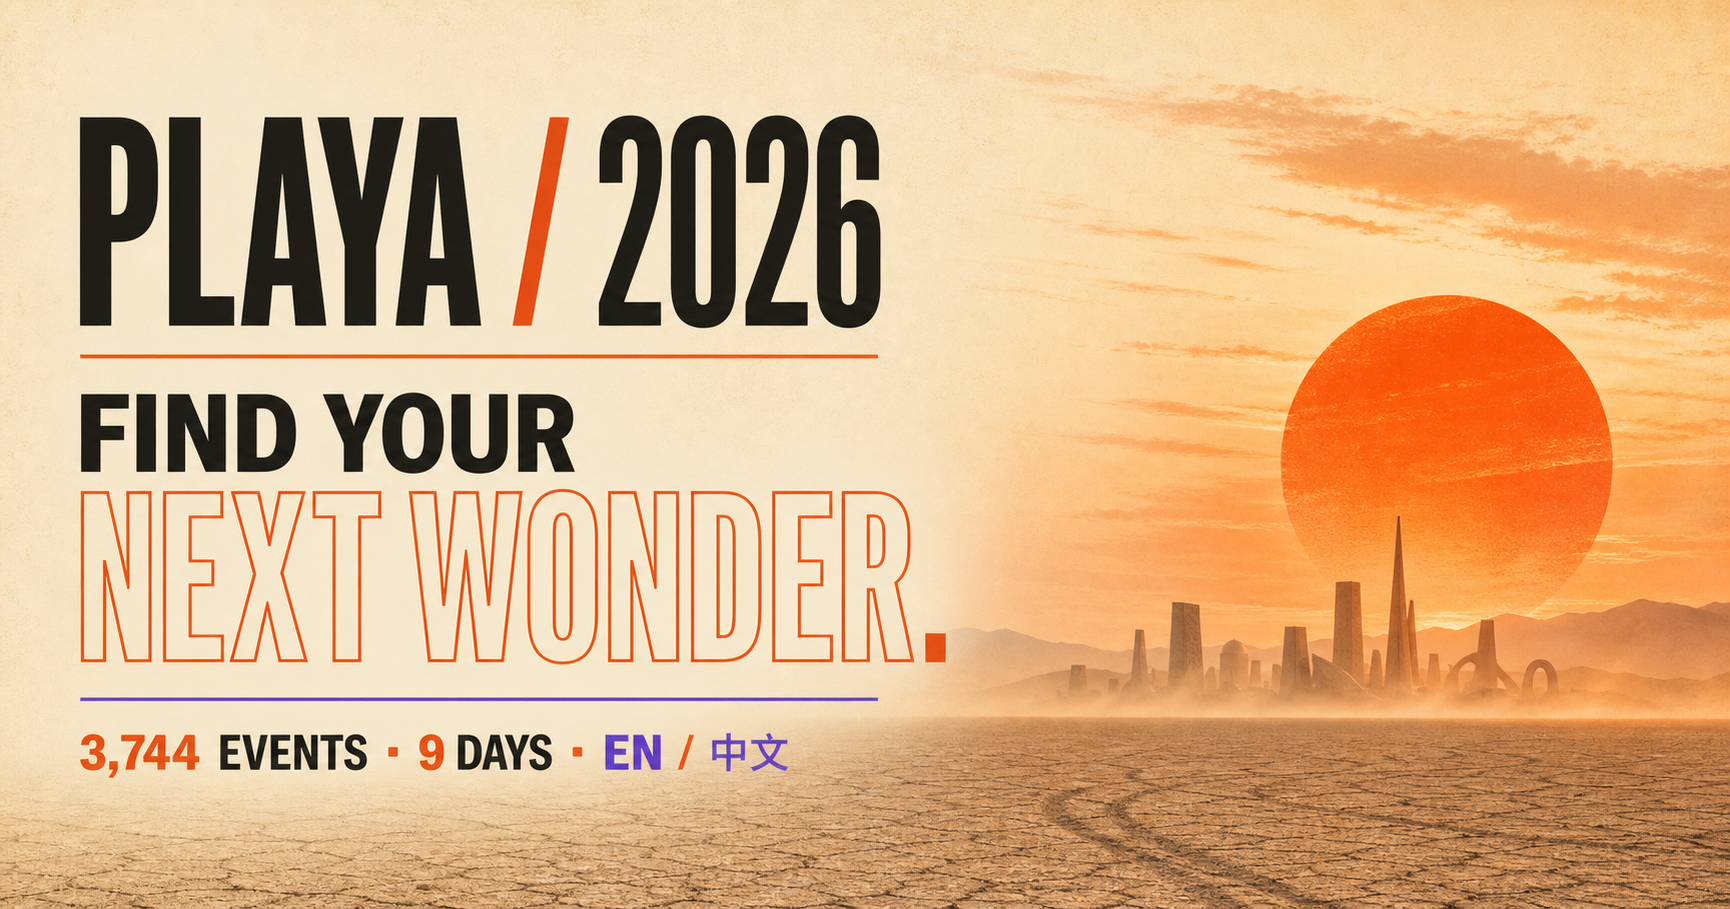
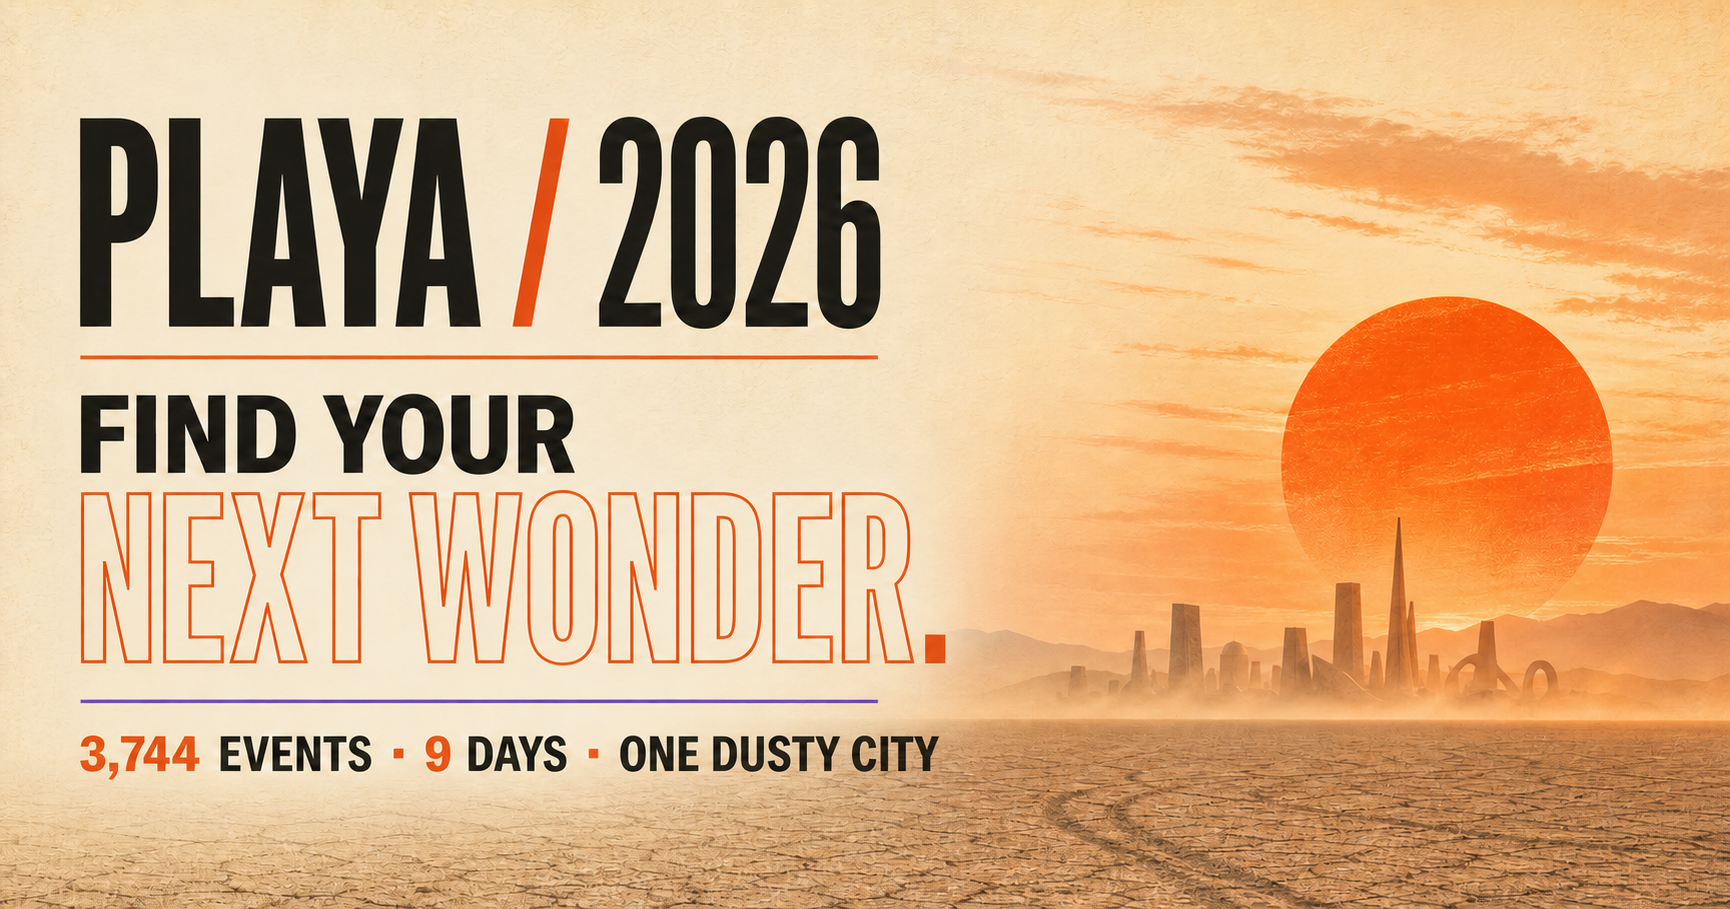
Add saved-event calendar and Netlify deployment

diff --git a/app/globals.css b/app/globals.css
@@ -144,27 +144,36 @@ footer a { border: 1px solid rgba(255,255,255,.35); border-radius: 999px; paddin
 .plan-shell.open { visibility: visible; }
 .plan-backdrop { position: absolute; inset: 0; width: 100%; border: 0; background: rgba(23,23,19,.38); opacity: 0; transition: opacity .25s ease; cursor: default; }
 .plan-shell.open .plan-backdrop { opacity: 1; }
-.plan-drawer { position: absolute; top: 0; right: 0; width: min(520px, 100%); height: 100%; background: var(--cream); transform: translateX(100%); transition: transform .32s cubic-bezier(.2,.8,.2,1); display: flex; flex-direction: column; box-shadow: -20px 0 60px rgba(23,23,19,.18); }
+.plan-drawer { position: absolute; top: 0; right: 0; width: min(1180px, 100%); height: 100%; background: var(--cream); transform: translateX(100%); transition: transform .32s cubic-bezier(.2,.8,.2,1); display: flex; flex-direction: column; box-shadow: -20px 0 60px rgba(23,23,19,.18); }
 .plan-shell.open .plan-drawer { transform: translateX(0); }
 .plan-header { padding: 28px 28px 22px; border-bottom: 1px solid var(--line); display: flex; justify-content: space-between; gap: 20px; }
 .plan-header p { margin: 0 0 8px; font-family: var(--font-geist-mono); font-size: 9px; color: #756e63; letter-spacing: .06em; }
 .plan-header h2 { margin: 0; font-size: 38px; letter-spacing: -.05em; }
 .plan-header h2 span { display: inline-grid; place-items: center; min-width: 32px; height: 32px; border-radius: 50%; background: var(--ember); color: white; font-family: var(--font-geist-mono); font-size: 11px; vertical-align: middle; }
 .plan-header > button { flex: 0 0 auto; width: 40px; height: 40px; border: 1px solid var(--line); border-radius: 50%; background: transparent; font-size: 24px; cursor: pointer; }
-.plan-list { flex: 1; overflow: auto; padding: 10px 28px; }
-.plan-item { display: grid; grid-template-columns: 48px minmax(0,1fr) auto; gap: 14px; align-items: center; padding: 16px 0; border-bottom: 1px solid var(--line); }
-.plan-index { width: 48px; height: 48px; border-radius: 50%; display: grid; place-items: center; background: #87909a; color: white; font-size: 18px; }
-.plan-index.category-prty { background: #6856c4; }
-.plan-index.category-arts { background: #e85a39; }
-.plan-index.category-work { background: #7b9d68; }
-.plan-index.category-food { background: #df9e36; }
-.plan-index.category-tea { background: #69a4a6; }
-.plan-index.category-adlt { background: #a04a6f; }
-.plan-index.category-kid { background: #c87cad; }
-.plan-item span { font-family: var(--font-geist-mono); font-size: 8px; letter-spacing: .06em; color: #7b7368; }
-.plan-item h3 { margin: 5px 0 3px; font-size: 15px; line-height: 1.15; }
-.plan-item p { margin: 0; font-size: 10px; color: #746d63; }
-.plan-item > button { width: 30px; height: 30px; border: 0; border-radius: 50%; background: #eee7dc; cursor: pointer; }
+.plan-calendar { flex: 1; min-height: 0; display: grid; grid-auto-flow: column; grid-auto-columns: minmax(210px, 1fr); overflow: auto; border-bottom: 1px solid var(--line); }
+.calendar-day { min-width: 0; border-right: 1px solid var(--line); background: rgba(255,255,255,.2); }
+.calendar-day:last-child { border-right: 0; }
+.calendar-day > header { height: 66px; position: sticky; top: 0; z-index: 2; display: grid; grid-template-columns: 1fr auto; align-content: center; padding: 0 14px; border-bottom: 1px solid var(--line); background: rgba(251,248,241,.96); backdrop-filter: blur(10px); }
+.calendar-day > header strong { font-family: var(--font-geist-mono); font-size: 11px; letter-spacing: .08em; }
+.calendar-day > header span { grid-row: 2; font-size: 10px; color: #7b7368; }
+.calendar-day > header em { grid-column: 2; grid-row: 1 / 3; align-self: center; display: grid; place-items: center; min-width: 27px; height: 27px; border-radius: 50%; background: var(--ink); color: white; font-family: var(--font-geist-mono); font-size: 9px; font-style: normal; }
+.calendar-events { padding: 10px; }
+.calendar-event { position: relative; margin-bottom: 9px; padding: 12px; border-radius: 14px; background: #e2ddd4; border-left: 4px solid #87909a; }
+.calendar-event.category-prty { border-left-color: #6856c4; background: #ebe8fa; }
+.calendar-event.category-arts { border-left-color: #e85a39; background: #f8e6df; }
+.calendar-event.category-work { border-left-color: #7b9d68; background: #e7eee1; }
+.calendar-event.category-food { border-left-color: #df9e36; background: #f7ebd3; }
+.calendar-event.category-tea { border-left-color: #69a4a6; background: #e0eeee; }
+.calendar-event.category-adlt { border-left-color: #a04a6f; background: #f2e2e9; }
+.calendar-event.category-kid { border-left-color: #c87cad; background: #f5e5ef; }
+.calendar-event-top { display: flex; align-items: center; justify-content: space-between; gap: 8px; }
+.calendar-event-top span { font-family: var(--font-geist-mono); font-size: 8px; letter-spacing: .05em; color: #6c655b; }
+.calendar-event-top button { width: 22px; height: 22px; border: 0; border-radius: 50%; background: rgba(23,23,19,.08); cursor: pointer; }
+.calendar-event h3 { margin: 9px 0 5px; padding-right: 16px; font-size: 13px; line-height: 1.18; letter-spacing: -.02em; }
+.calendar-event p { margin: 0; padding-right: 18px; font-size: 9px; line-height: 1.35; color: #746d63; }
+.calendar-event > a { position: absolute; right: 11px; bottom: 10px; font-size: 11px; }
+.calendar-blank { margin: 20px 0; text-align: center; color: #b7afa3; }
 .plan-empty { height: 100%; display: grid; place-items: center; align-content: center; text-align: center; gap: 12px; color: #70695f; }
 .plan-empty span { font-size: 48px; color: var(--ember); }
 .plan-empty p { max-width: 270px; line-height: 1.5; }
@@ -216,7 +225,7 @@ footer a { border: 1px solid rgba(255,255,255,.35); border-radius: 999px; paddin
   footer a { justify-self: start; }
   .plan-dock { right: 14px; bottom: 14px; }
   .plan-header, .plan-footer { padding-left: 18px; padding-right: 18px; }
-  .plan-list { padding-left: 18px; padding-right: 18px; }
+  .plan-calendar { grid-auto-columns: minmax(200px, 76vw); }
 }
 
 @media (prefers-reduced-motion: reduce) {

diff --git a/app/page.tsx b/app/page.tsx
@@ -45,20 +45,20 @@ const categoryMeta: Record<string, { en: string; zh: string; mark: string }> = {
 const copy = {
   en: {
     navTitle: "PLAYA / 2026",
-    navSub: "The bilingual field guide",
+    navSub: "Black Rock City field guide",
     search: "Search events, camps, or locations…",
     eyebrow: "COMMUNITY-CURATED · 3,744 MOMENTS IN THE DUST",
     heroA: "FIND YOUR",
     heroB: "NEXT WONDER.",
     intro:
-      "Nine days. Thousands of invitations. One clean guide for following the strange, generous pulse of Black Rock City — in English and Chinese.",
+      "Nine days. Thousands of invitations. One clean guide for following the strange, generous pulse of Black Rock City.",
     updated: "Source updated Aug 27, 2026",
     events: "events",
     days: "days",
-    languages: "languages",
+    languages: "categories",
     saved: "saved",
     myPlaya: "My Playa",
-    planHint: "Your interested list lives only in this browser.",
+    planHint: "Your saved events, arranged across the week. Stored only in this browser.",
     planEmpty: "Star any event to start building your personal playa list.",
     copyList: "Copy list",
     copied: "Copied",
@@ -92,10 +92,10 @@ const copy = {
     updated: "来源更新于 2026 年 8 月 27 日",
     events: "活动",
     days: "天",
-    languages: "语言",
+    languages: "分类",
     saved: "已收藏",
     myPlaya: "我的 Playa",
-    planHint: "你的兴趣清单只保存在此浏览器中。",
+    planHint: "收藏的活动按日期排好，只保存在此浏览器中。",
     planEmpty: "收藏任意活动，开始制作你的个人 Playa 清单。",
     copyList: "复制清单",
     copied: "已复制",
@@ -306,7 +306,7 @@ export default function Home() {
           <dl className="stats">
             <div><dt>3,744</dt><dd>{t.events}</dd></div>
             <div><dt>09</dt><dd>{t.days}</dd></div>
-            <div><dt>02</dt><dd>{t.languages}</dd></div>
+            <div><dt>08</dt><dd>{t.languages}</dd></div>
             <div><dt>{String(saved.size).padStart(2, "0")}</dt><dd>{t.saved}</dd></div>
           </dl>
         </div>
@@ -385,21 +385,25 @@ export default function Home() {
             <div><p>{t.planHint}</p><h2>{t.myPlaya} <span>{saved.size}</span></h2></div>
             <button onClick={() => setPlanOpen(false)} aria-label={t.close}>×</button>
           </div>
-          <div className="plan-list">
+          <div className="plan-calendar">
             {savedEvents.length === 0 ? (
               <div className="plan-empty"><span>☆</span><p>{t.planEmpty}</p></div>
-            ) : savedEvents.map((event) => {
-              const eventDay = event.times.findIndex((time) => time && time !== "-");
+            ) : days.map((calendarDay, dayIndex) => {
+              const dayEvents = savedEvents.filter((event) => event.times[dayIndex] && event.times[dayIndex] !== "-");
               return (
-                <article key={event.uid} className="plan-item">
-                  <div className={`plan-index category-${normalizeCategory(event.type)}`}>{categoryMeta[normalizeCategory(event.type)]?.mark || "✳"}</div>
-                  <div>
-                    <span>{eventDay >= 0 ? `${days[eventDay][lang === "en" ? 0 : 1]} ${days[eventDay][2]} · ${event.times[eventDay]}` : event.camp}</span>
-                    <h3>{event.title}</h3>
-                    <p>{event.where !== "-" ? event.where : event.camp}</p>
+                <section className="calendar-day" key={calendarDay[2]}>
+                  <header><strong>{calendarDay[lang === "en" ? 0 : 1]}</strong><span>{calendarDay[2]}</span><em>{dayEvents.length}</em></header>
+                  <div className="calendar-events">
+                    {dayEvents.length === 0 ? <p className="calendar-blank">—</p> : dayEvents.map((event) => (
+                      <article key={`${event.uid}-${dayIndex}`} className={`calendar-event category-${normalizeCategory(event.type)}`}>
+                        <div className="calendar-event-top"><span>{categoryMeta[normalizeCategory(event.type)]?.mark || "✳"} {event.times[dayIndex]}</span><button onClick={() => toggleSaved(event.uid)} aria-label={t.remove}>×</button></div>
+                        <h3>{event.title}</h3>
+                        <p>{event.where !== "-" ? event.where : event.camp}</p>
+                        <a href={event.link} target="_blank" rel="noreferrer">↗</a>
+                      </article>
+                    ))}
                   </div>
-                  <button onClick={() => toggleSaved(event.uid)} aria-label={t.remove}>×</button>
-                </article>
+                </section>
               );
             })}
           </div>

diff --git a/app/layout.tsx b/app/layout.tsx
@@ -1,29 +1,22 @@
 import type { Metadata } from "next";
 import { Geist, Geist_Mono } from "next/font/google";
-import { headers } from "next/headers";
 import "./globals.css";
 
 const geistSans = Geist({ variable: "--font-geist-sans", subsets: ["latin"] });
 const geistMono = Geist_Mono({ variable: "--font-geist-mono", subsets: ["latin"] });
 
-export async function generateMetadata(): Promise<Metadata> {
-  const requestHeaders = await headers();
-  const host = requestHeaders.get("x-forwarded-host") || requestHeaders.get("host") || "localhost:3000";
-  const protocol = requestHeaders.get("x-forwarded-proto") || (host.includes("localhost") ? "http" : "https");
-  const origin = `${protocol}://${host}`;
-  return {
-    title: "Playa 2026 — Bilingual Burning Man Event Guide",
-    description: "Explore 3,744 Burning Man 2026 events in English and Chinese. Filter by day, category, camp, and location, then save your playa plan.",
+export const metadata: Metadata = {
+    title: "Playa 2026 — Burning Man Event Guide",
+    description: "Explore 3,744 Burning Man 2026 events. Filter by day, category, camp, and location, then save your playa plan.",
     icons: { icon: "/favicon.svg", shortcut: "/favicon.svg" },
     openGraph: {
       title: "Playa 2026 — Find Your Next Wonder",
-      description: "A bilingual field guide to 3,744 Burning Man events across nine days in Black Rock City.",
+      description: "A field guide to 3,744 Burning Man events across nine days in Black Rock City.",
       type: "website",
-      images: [{ url: `${origin}/og.png`, width: 1792, height: 1024, alt: "Playa 2026 — Find Your Next Wonder" }],
+      images: [{ url: "https://playa.intelchen.com/og.png", width: 1792, height: 1024, alt: "Playa 2026 — Find Your Next Wonder" }],
     },
-    twitter: { card: "summary_large_image", title: "Playa 2026", description: "Find your next wonder in the dust.", images: [`${origin}/og.png`] },
-  };
-}
+    twitter: { card: "summary_large_image", title: "Playa 2026", description: "Find your next wonder in the dust.", images: ["https://playa.intelchen.com/og.png"] },
+};
 
 export default function RootLayout({ children }: Readonly<{ children: React.ReactNode }>) {
   return <html lang="en"><body className={`${geistSans.variable} ${geistMono.variable}`}>{children}</body></html>;
